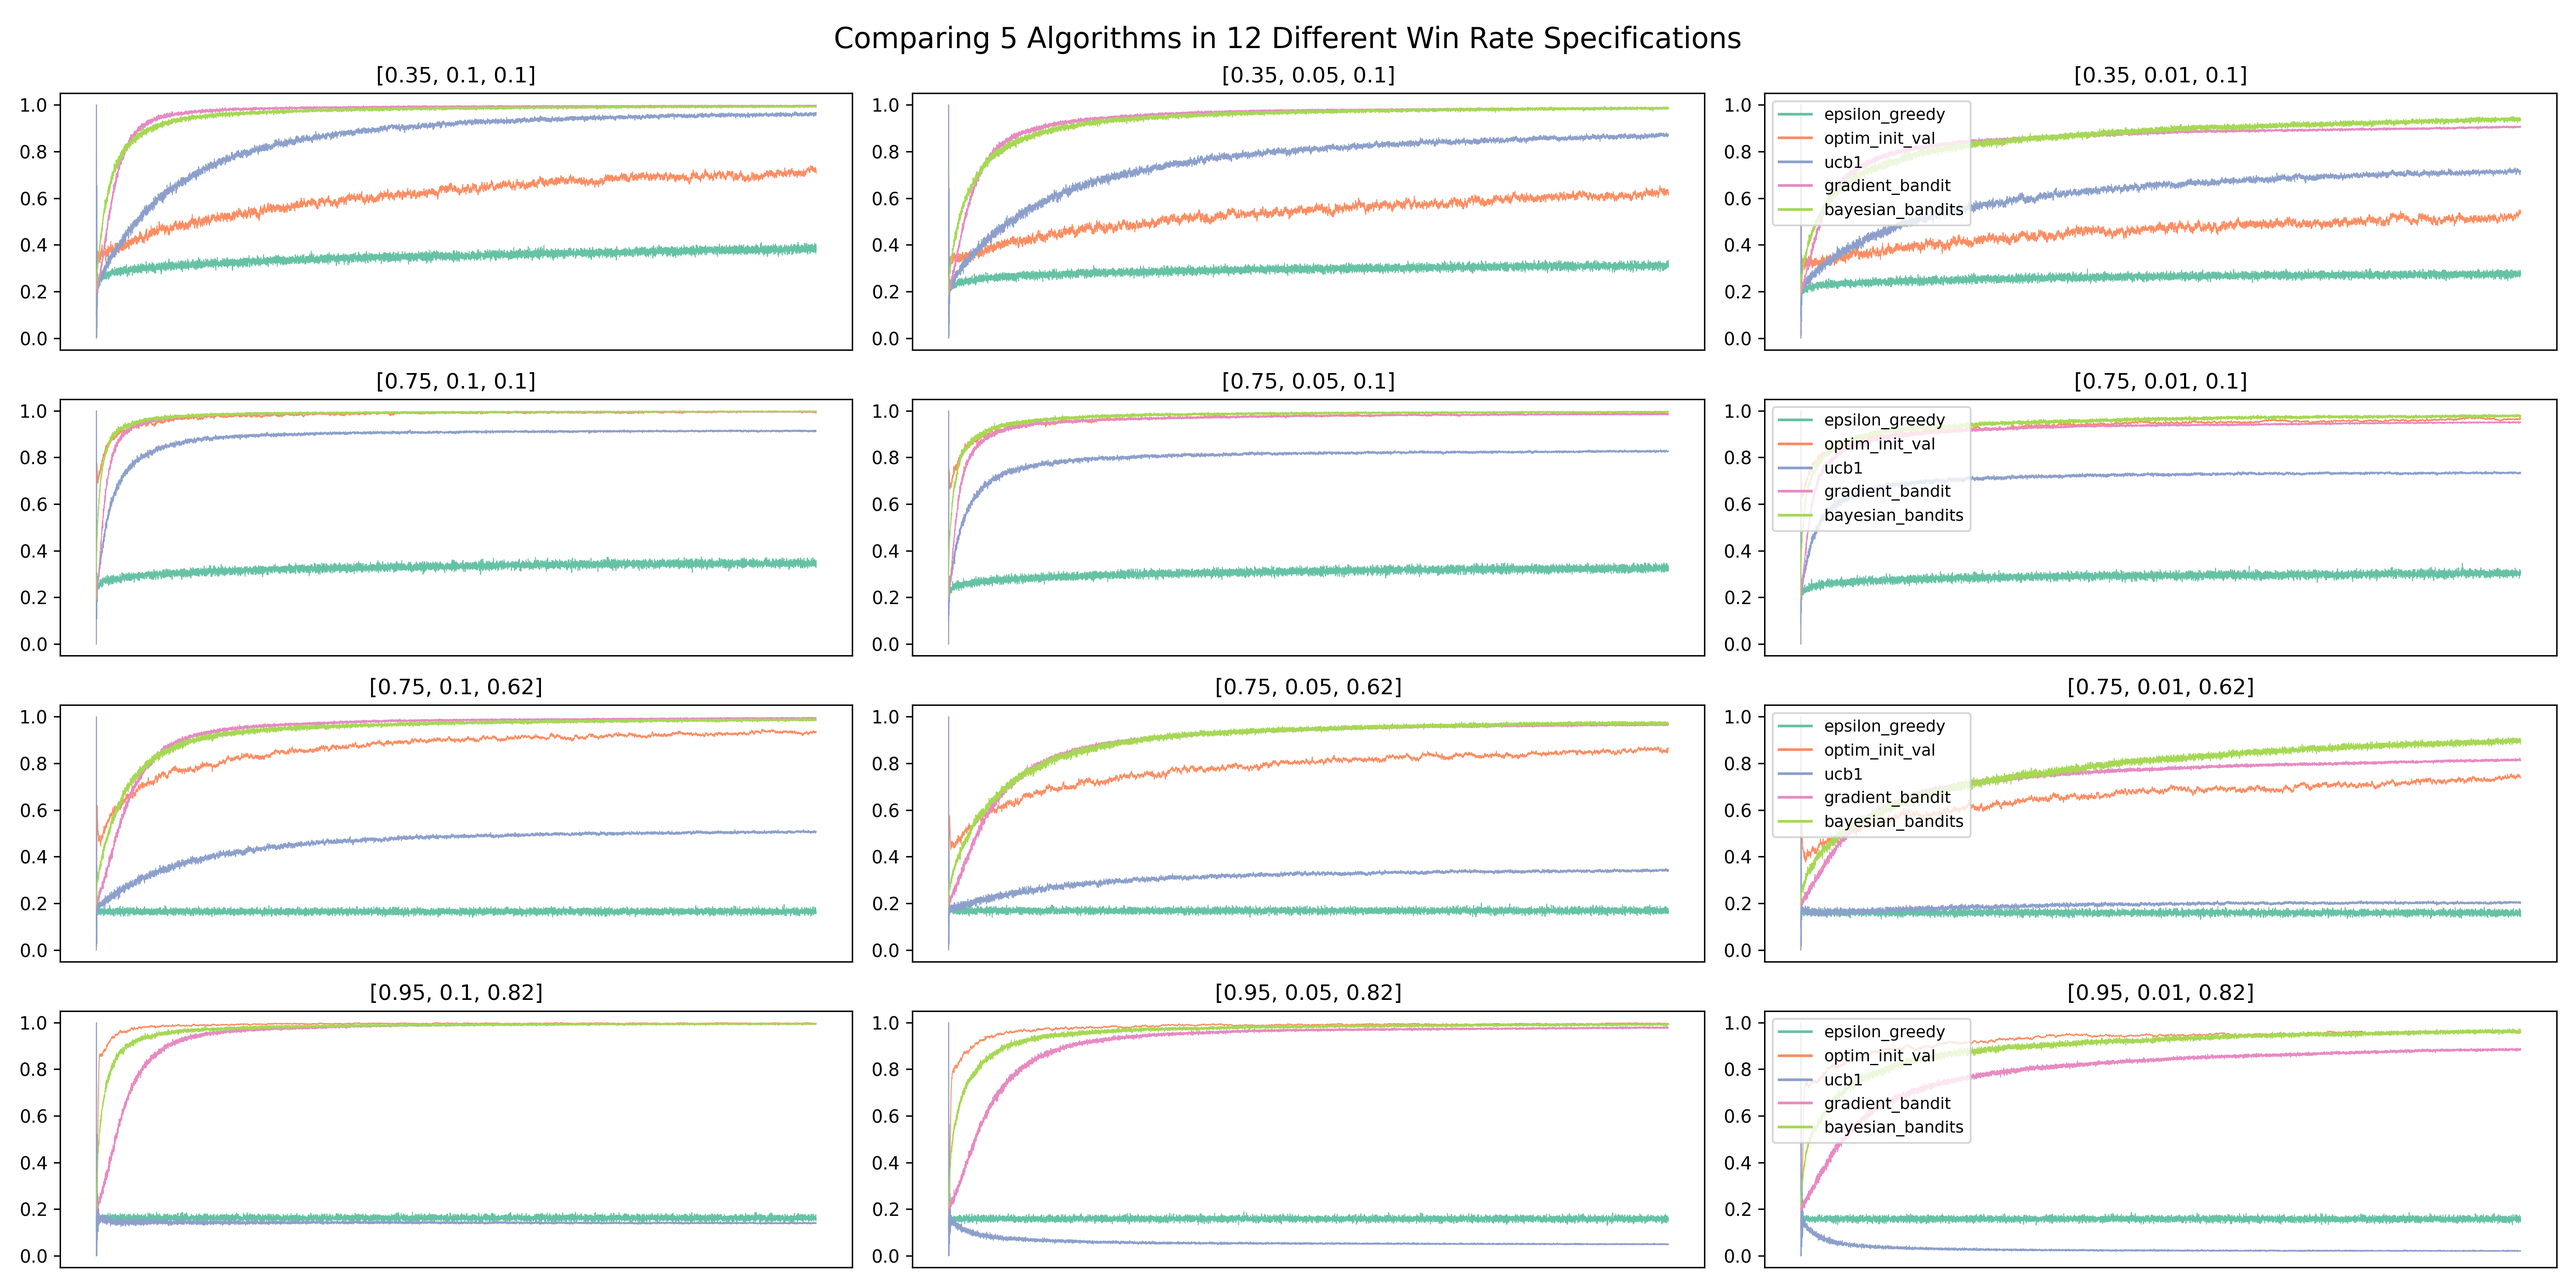
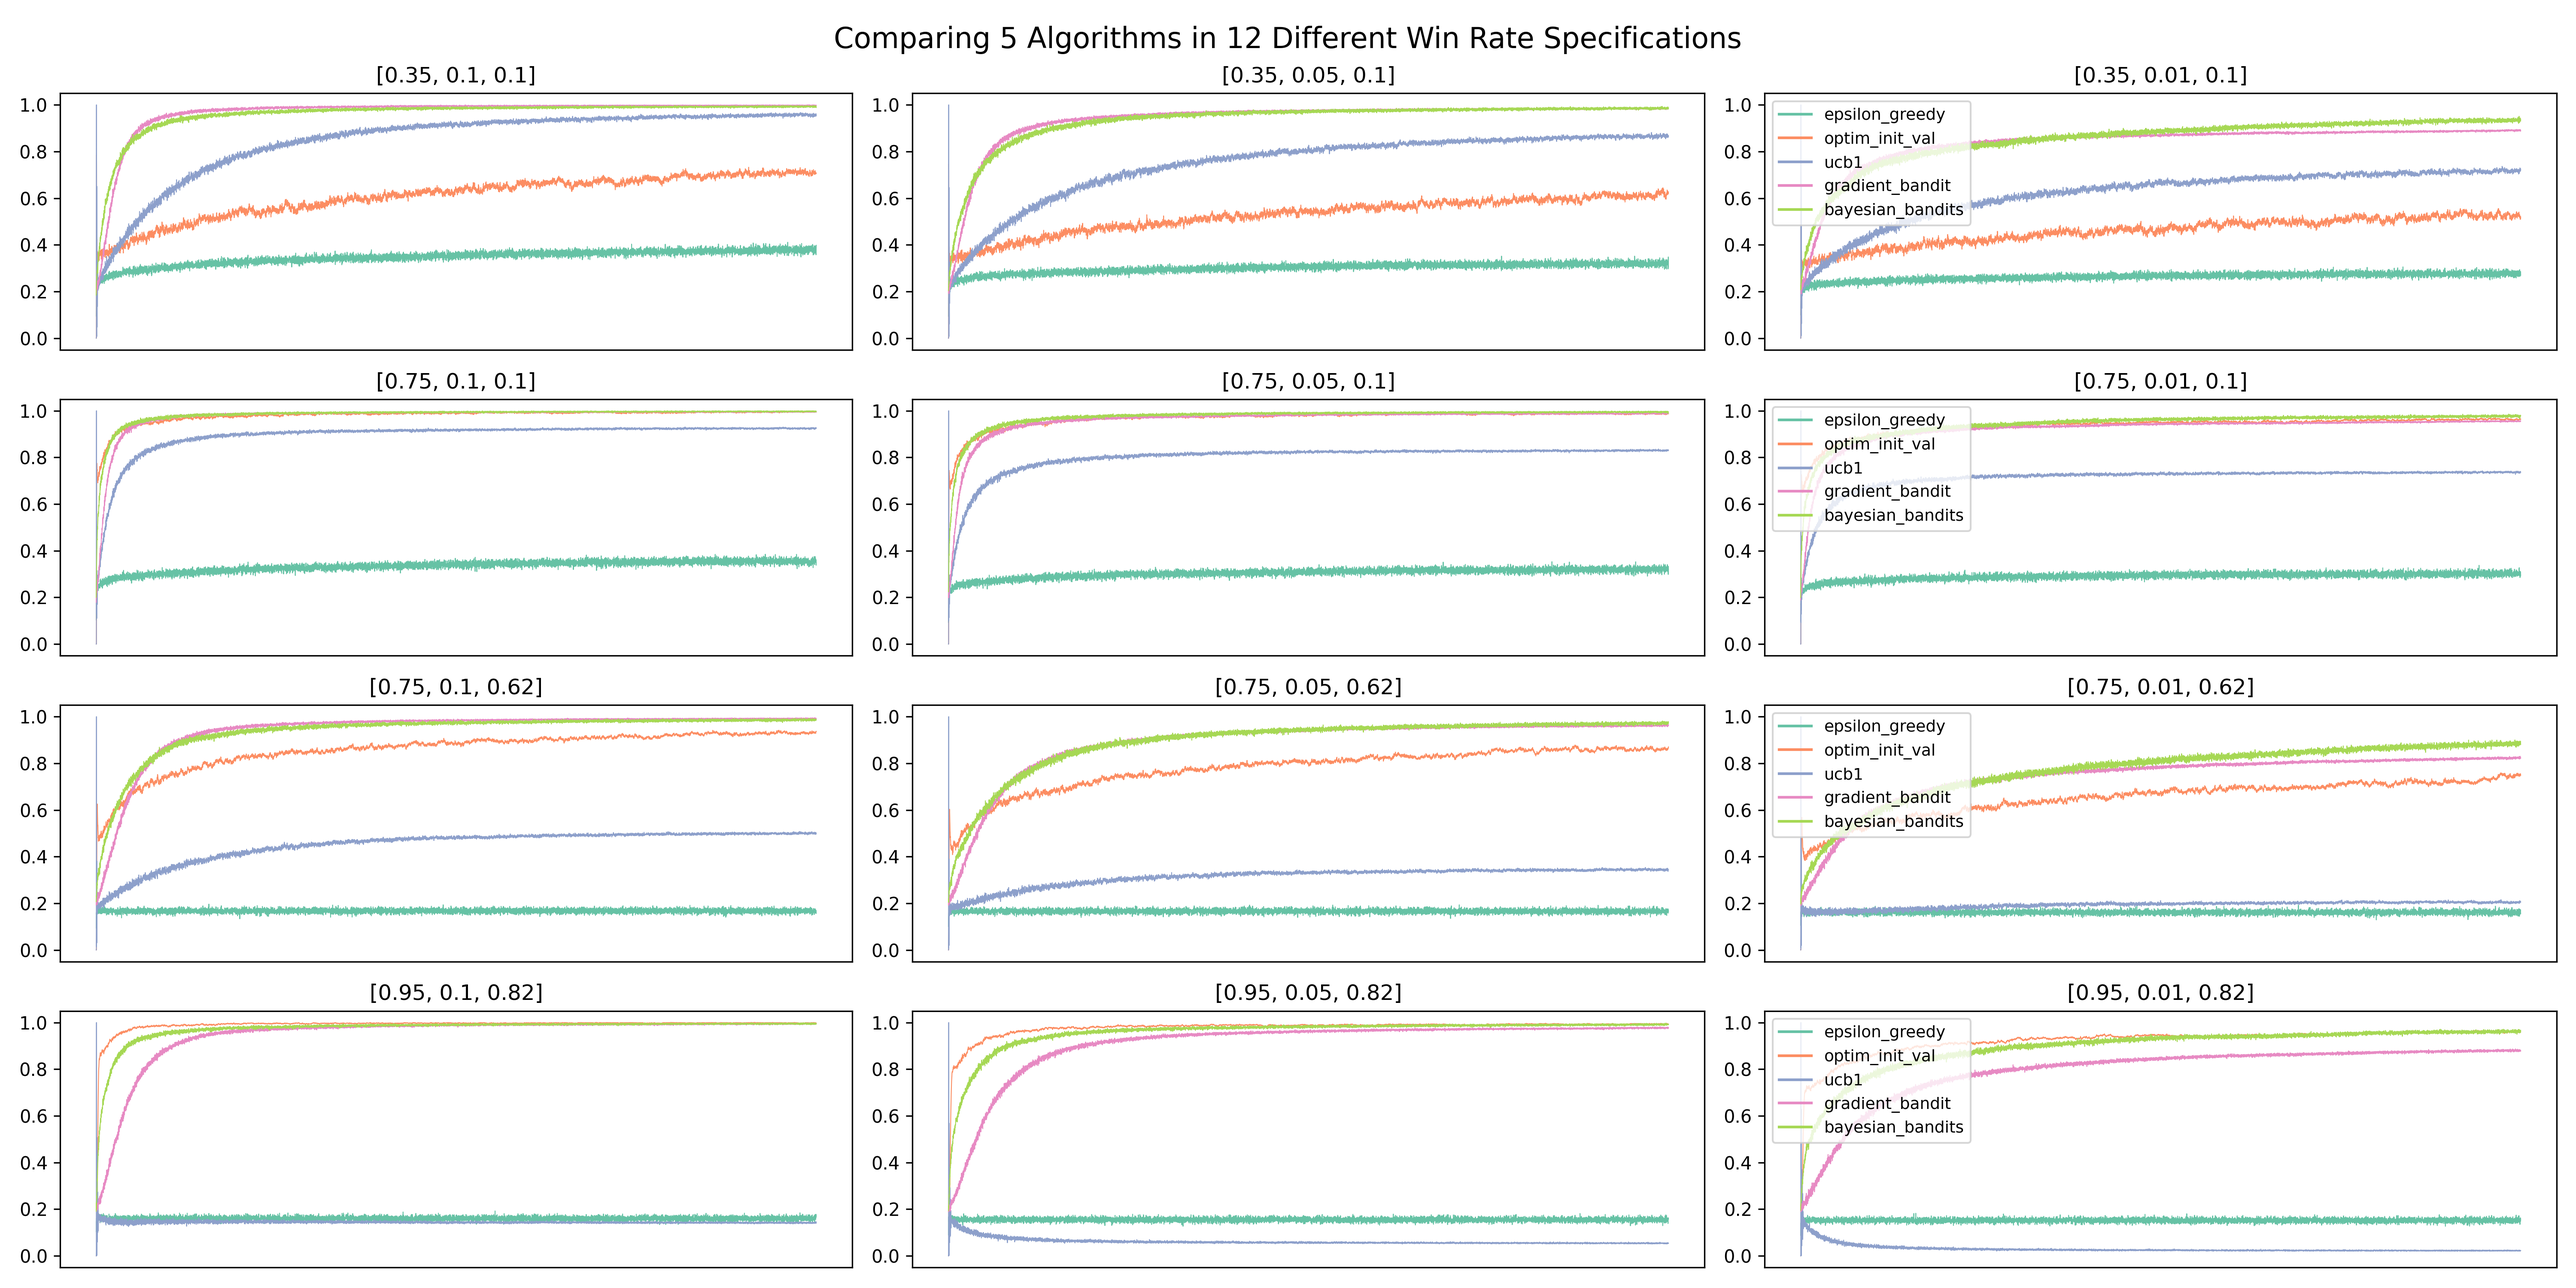
updated

diff --git a/Multi-Arm Bandits/bayesianab_mc.py b/Multi-Arm Bandits/bayesianab_mc.py
@@ -23,8 +23,8 @@ def worker(algo, N_bandits, N, p_max, p_diff, p_min, n):
 
 def monte_carlo(
         algos,
-        n=500,
-        N=10001,
+        m=500,
+        n=10001,
         p_max: float = .75,
         p_diff: float = .05,
         p_min: float = .1
@@ -34,8 +34,8 @@ def monte_carlo(
     for algo in algos:
         print(f'Running {algo}...')
         with Pool(cpu_count()) as pool:
-            func = partial(worker, algo, N_bandits, N, p_max, p_diff, p_min)
-            results = list(pool.imap(func, range(n)))
+            func = partial(worker, algo, N_bandits, n, p_max, p_diff, p_min)
+            results = list(pool.imap(func, range(m)))
 
         algos_hist[algo] = results
 

diff --git a/Multi-Arm Bandits/article-en.md b/Multi-Arm Bandits/article-en.md
@@ -858,19 +858,201 @@ It is also interesting to look at what happened after only 100 visitors:
 Two differences between `Thompson Sampling` and the other algorithms we have discussed should be noted. First, as already mentioned, `Thompson Sampling` attempts to build a distribution for the bandits. Comparing the two visuals from 100 visitors and all visitors shows that, although the best version has jumped out early, the distribution is much tighter/narrower at the end of the experiment, indicating greater "confidence" for the estimated expected win rate. Second, and importantly, the `Thompson Sampling` algorithm has no problem distinguishing between a bandit with a 0.67 win rate and the best version with a win rate of 0.75.
 
 ## Comparing the Algorithms
-Under construction...
+
+It is important to compare the five algorithms in different settings. Following Sutton and Barto (2020), I conduct a 5-armed testbed. The testbed involve many runs, say 2,000. It then calculates the proportion of the bandit with the highest win rate was picked in each round. To implement the testbest, I first revise the `BayesianAB()` class to allow for the number of visitors, $N$, as an input. Then I add a list when `BayesianAB` is initialized to store the chosen bandit in each round:
+
+```python
+self.history_bandit = [] 
+```
+
+Then in the following functions/methods:
+* `update()`
+* `gradient_bandit()`
+* `bayesian_bandits()`
+
+I added the line
+
+```python
+self.history_bandit.append(i)
+```
+
+toward the end. With these changes, the algorithms now also records and saves the chosen bandit in each round (or for each visitor). Lastly, I also add three parameters, `p_max`, `p_diff`, and `p_min`, so that the `BayesianAB()` class can generate different win rates. Once these steps are done, I write a new script to run the testbed:
+
+```python
+import numpy as np
+import pandas as pd
+import matplotlib.pyplot as plt
+import seaborn as sns
+from multiprocessing import Pool, cpu_count
+from functools import partial
+
+from bayesianab import BayesianAB
+
+# set the number of bandits
+N_bandits = 5
+# set the number of visitors
+N = 10001
+# set the number of trials
+M = 2000
+
+
+def worker(algo, N_bandits, N, p_max, p_diff, p_min, n):
+    bayesianab_instance = BayesianAB(N_bandits, N, p_max, p_diff, p_min)
+    getattr(bayesianab_instance, algo)()
+    return bayesianab_instance.history_bandit
+
+
+def monte_carlo(
+        algos,
+        m=500,
+        n=10001,
+        p_max: float = .75,
+        p_diff: float = .05,
+        p_min: float = .1
+):
+    algos_hist = {algo: [] for algo in algos}
+
+    for algo in algos:
+        print(f'Running {algo}...')
+        with Pool(cpu_count()) as pool:
+            func = partial(worker, algo, N_bandits, n, p_max, p_diff, p_min)
+            results = list(pool.imap(func, range(m)))
+
+        algos_hist[algo] = results
+
+    return algos_hist
+
+
+def run_monte_carlo(
+        algos,
+        M,
+        N,
+        p_values,
+):
+    trials = {}
+    df_all = {}
+
+    for i in range(len(p_values)):
+        print(f'The p_values are {p_values[i]}')
+        trials[f'p{i}'] = monte_carlo(algos,
+                                      M,
+                                      N,
+                                      p_values[i][0],
+                                      p_values[i][1],
+                                      p_values[i][2],)
+
+    for i in range(len(p_values)):
+        df = pd.DataFrame()
+        for j in algos:
+            list = [0] * (N - 1)
+            for k in range(M):
+                list = np.array(list) + np.array([1 if x == 4 else 0 for x in trials[f'p{i}'][j][k]])
+            df[j] = (list / M).tolist()
+
+        df_all[f'p{i}'] = df.copy()
+
+    return df_all
+
+
+def plot_monte_carlo(
+        df_all,
+        algos,
+        col,
+        row,
+):
+    figure, axis = plt.subplots(row, col, figsize=(20, 10))
+    colors = sns.color_palette("Set2", len(algos))
+
+    m = 0  # column index
+    n = 0  # row index
+
+    for key in df_all:
+        ax = axis[n, m]
+        for i in range(len(algos)):
+            sns.lineplot(x=df_all[key].index, y=df_all[key][algos[i]], linewidth=0.5, color=colors[i], ax=ax)
+
+        ax.set_ylabel('')
+        ax.set_title(p_values[n * 3 + m])
+        ax.set_xticks([])
+
+        if m == 2:
+            # Create custom legend using prob_true and colors
+            custom_legend = [plt.Line2D([], [], color=colors[i], label=algos[i]) for i in range(len(algos))]
+            ax.legend(handles=custom_legend, loc='upper left', fontsize=9)
+            n += 1
+            m = 0
+        else:
+            m += 1
+
+    figure.suptitle('Comparing 5 Algorithms in 12 Different Win Rate Specifications', fontsize=16)
+
+    # Adjust the spacing between subplots
+    plt.tight_layout()
+
+    plt.savefig("comparison.png", dpi=300)
+    # plt.show()
+
+
+if __name__ == "__main__":
+    algos = ['epsilon_greedy', 'optim_init_val', 'ucb1', 'gradient_bandit', 'bayesian_bandits']
+    p_values = [[.35, .1, .1], [.35, .05, .1], [.35, .01, .1],
+                [.75, .1, .1], [.75, .05, .1], [.75, .01, .1],
+                [.75, .1, .62], [.75, .05, .62], [.75, .01, .62],
+                [.95, .1, .82], [.95, .05, .82], [.95, .01, .82],
+                ]
+
+    df_all = run_monte_carlo(algos, M, N, p_values)
+
+    plot_monte_carlo(df_all, algos, 3, 4)
+```
+
+For parallelization, I load the `multiprocessing` library. I also import the `BayesianAB` class from the script written by the five algorithms. In the above, the `worker()` function defines the task (or worker) for parallelization. The main function, which is named `monte_carlo()`, accepts six arguments:
+1. `algos` is a list of algorithms. The algorithms should match the names given as methods in the `BayesianAB()` method. In our case, we have
+```python
+algos = ['epsilon_greedy', 'optim_init_val', 'ucb1', 'gradient_bandit', 'bayesian_bandits']
+```
+2. `m` is the number of simulations/trials to run. The default value si 500. We will be running 2000 simulations. For each round/visitor, we will calculate the percentage that the bandit with the highest win rate was picked among these 2000 simulations;
+3. `n` is the number of rounds/visitors in each simulation. A default number of 10001 means it will have 10000 visitors;
+4. `p_max` is the highest win rate;
+5. `p_diff` is the smallest possible difference between the highest win rate and the second highest win rate;
+6. `p_min` is the lowest possible win rate.
+
+We will run simulations with 12 different combinations of `p_max`, `p_diff`, and `p_min`, given in the following `p_values` list:
+```
+    p_values = [[.35, .1, .1], [.35, .05, .1], [.35, .01, .1],
+                [.75, .1, .1], [.75, .05, .1], [.75, .01, .1],
+                [.75, .1, .62], [.75, .05, .62], [.75, .01, .62],
+                [.95, .1, .82], [.95, .05, .82], [.95, .01, .82],
+                ]
+```
+
+The `run_monte_carlo()` function calls the `monte_carlo()` function, then processes the results and calculate the percentage of the best bandit being picked in each round. The results are stored in a `dictionary` named `df_all`.
+
+The `plot_monte_carlo()` function, as the name suggests, plots the results in a 4-by-3 grid. Each subplot corresponds to a certain combination of `[p_max, p_diff, p_min]` which is given in the titles of the subplots.
+
+Here is the resulted plot with 2000 simulations each with 10000 visitors:
+
+![Comparison](comparison.png)
+
+Several results stand out:
+1. `Thompson Sampling` and `Gradient Bandit` both perform consistent good. `Thompson Sampling` has the best overall performance, picking the best bandit in over 90% of the simulations at the end of the 10000 rounds. It also edges out `Gradient Bandit` when `p_diff` is 0.01, which makes it possible to have a close second-best bandit;
+2. The `Epsilon Greedy` algorithm performs consistently regardless of win rate settings, but at a poor 20% rate of picking the best bandit. This may be partly due to a relatively high value of epsilon at 0.5;
+3. The algorithm that is the most sensitive to win rate settings is `UCB1`. `UCB1`'s performance when the win rate of the best bandit is at 0.95 can be puzzling. It can be due to a combination of the algorithm itself and a relatively high `c` value. When the best bandit has a win rate of 0.95, and especially when there exists a close second-best, the "bonus" that `UCB1` can give a bandit is small. After all, the win rate is not to be exceeding 1. As a result, `UCB1` has a hard time distinguishing between the best bandits and others that are almost as good.
 
 ## Summary, Extensions, and Applications
 
+In this article, I have introduced you to five algorithms that can be used in *real-time* A/B Testing and Randomized Controlled Trials. Compared to traditional methods that often involve the use of some form of Power Analysis to pre-determine minimum sample size, the algorithms introduced in this article have one additional advantage: They can be easily extended to experiments with more than 2 choices/versions/bandits, as illustrated in an example with 5 bandits throughout this article.
 
-## References (Incomplete)
+The algorithms introduced in this article are known as algorithms for the `Multi-Armed Bandit` problem, which is considered as the simplest form of **reinforcement learning**. We will come back to more complex reinforcement learning algorithms and problems in another article.
 
-https://www.udemy.com/course/bayesian-machine-learning-in-python-ab-testing/
+It is worth mentioning two extensions of the `Multi-Armed Bandit` problem: `Non-stationary Bandit` and `Contextual Bandit`. Non-stationary Bandit means that the win rates change over time. One particular algorithm that we introduced in this article is known to do badly in non-stationary bandit problems: `Optimistic Initial Values`. The reason is obvious: `Optimistic Initial Values` algorithm is designed to explore aggressively in the beginning. When the win rates change after this initial exploration stage has ended, it is hard for it to change course.
 
-http://incompleteideas.net/book/the-book-2nd.html (Chapter 2)
+`Contextual Bandit`, as the name suggests, means that there exists contextual information to be exploited. In a simple example, may be a casino has slot machines in different colors, and colors are not given at random: the green machines have higher win rate than the red ones. A new player would not know that at first, but as time goes on and if the player has explored sufficiently, it is possible to figure out the association between color and win rate, and hence makes choices accordingly. This is also why `Contextual Bandit` is also known as `Associative Search`. We will come back to this in another article, because `Contextual Bandit` algorithms can be used in regression problems.
 
-https://en.m.wikipedia.org/wiki/Multi-armed_bandit
+## References
 
-https://www.tensorflow.org/agents/tutorials/intro_bandit
-
-https://www.optimizely.com/optimization-glossary/multi-armed-bandit/
+* https://www.udemy.com/course/*bayesian-machine-learning-in-python-ab-testing/
+* http://incompleteideas.net/book/the-book-2nd.html (Chapter 2)
+* https://en.m.wikipedia.org/wiki/Multi-armed_bandit
+* https://www.tensorflow.org/agents/tutorials/intro_bandit
+* https://www.optimizely.com/optimization-glossary/multi-armed-bandit/
